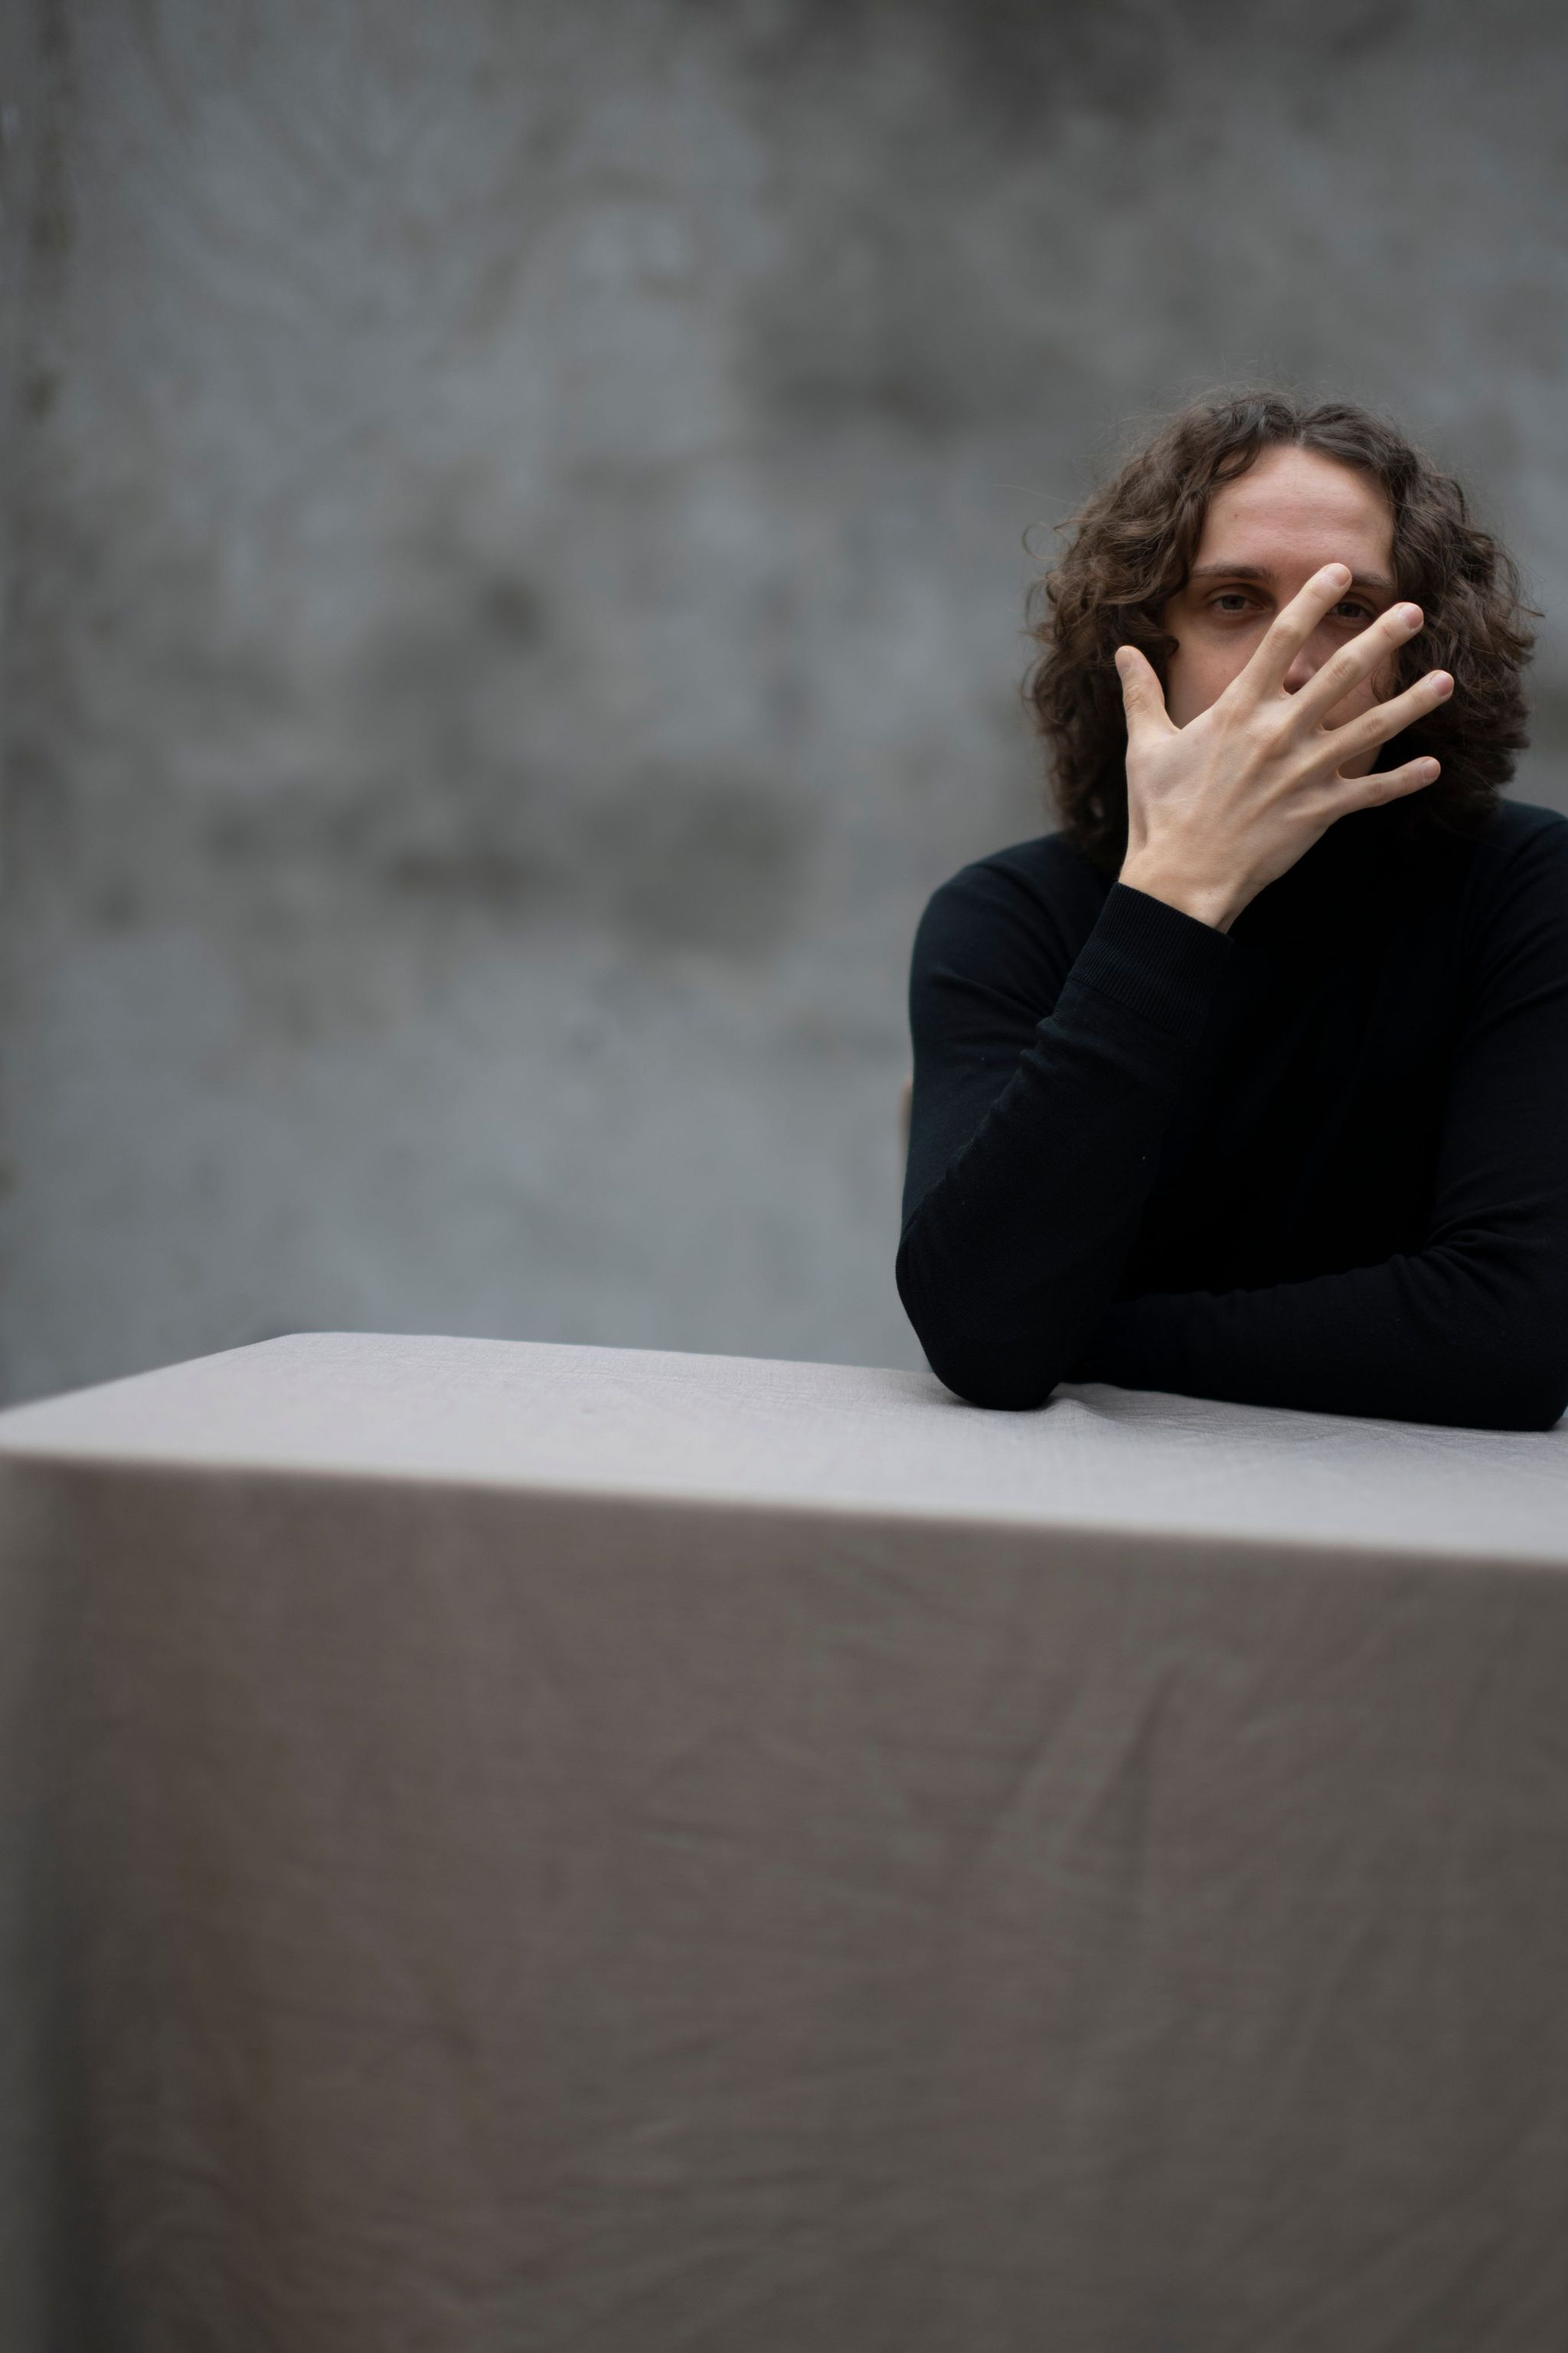
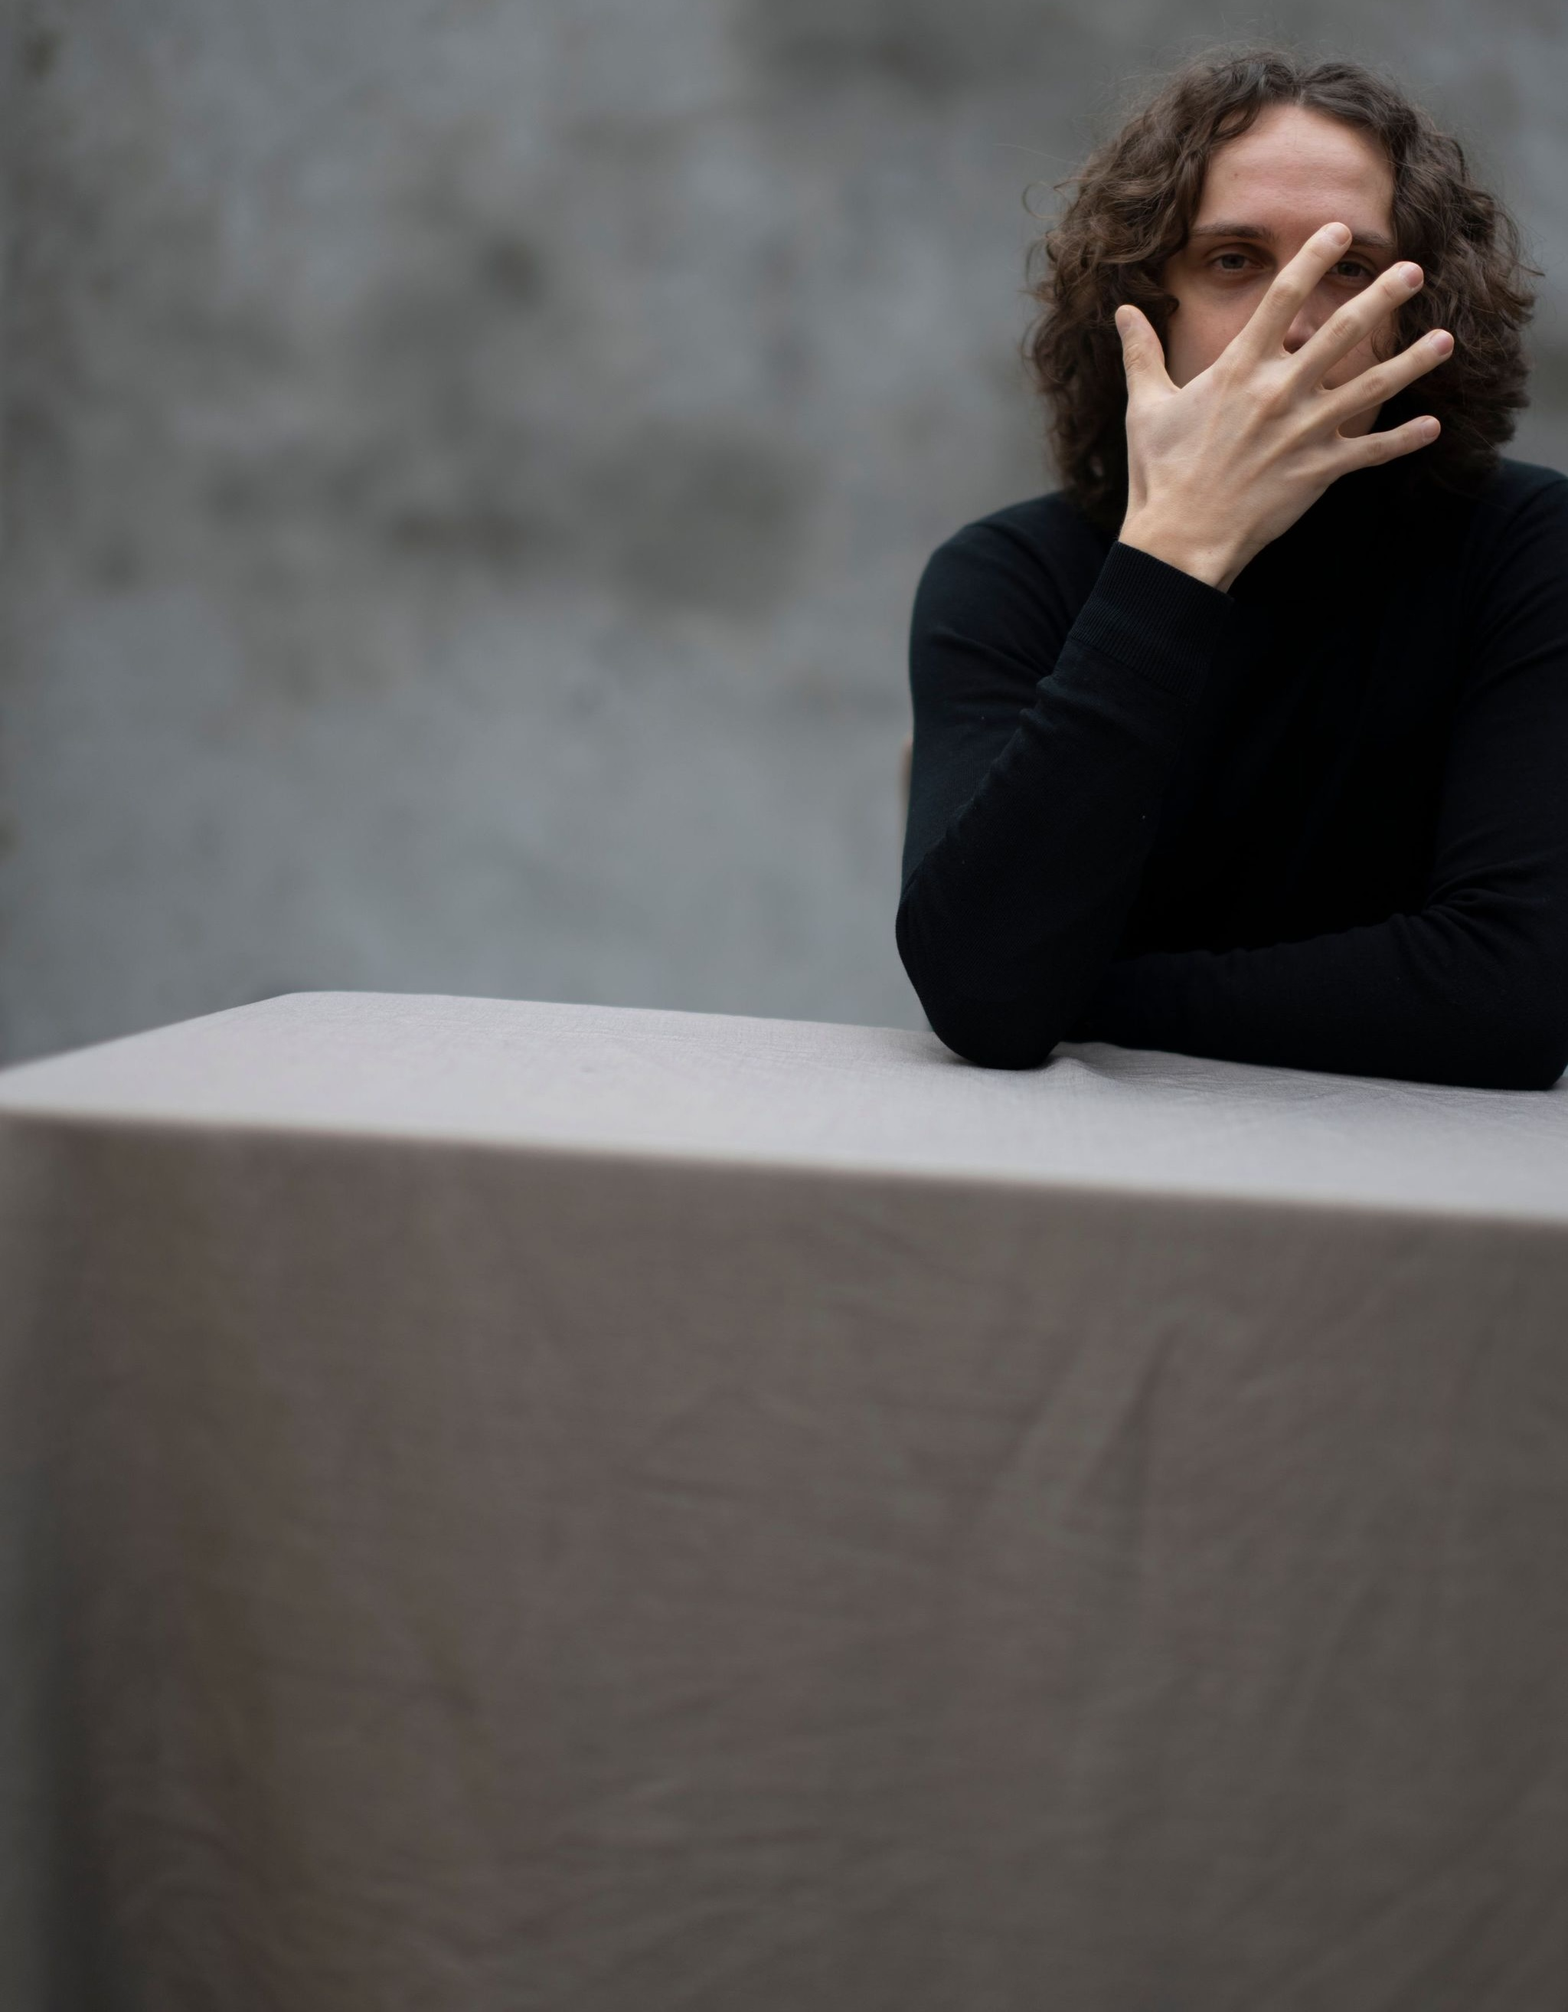
feat: concerts

diff --git a/src/app/(client)/concerts/page.tsx b/src/app/(client)/concerts/page.tsx
@@ -1,3 +1,93 @@
+import { Typography } from "@/components/typography";
+import type { Concert } from "@/prisma/generated/client";
+
+const upcomingConcert: Concert[] = [
+  {
+    title: "Solo Recital",
+    description: "Kosta Jakic performs a solo recital at salle Henri Le Boeuf",
+    id: "1",
+    date: "2022-05-10",
+    time: "19:00",
+    updatedAt: new Date(),
+    createdAt: new Date(),
+    location: "Bozar, salle Henri Le Boeuf",
+  },
+  {
+    title: "Chamber musical recital",
+    description: "Kosta Jakic performs a chamber musical recital at the Royal Albert Hall.",
+    id: "1",
+    date: "2022-05-17",
+    time: "20:00",
+    updatedAt: new Date(),
+    createdAt: new Date(),
+    location: "De Singel, Antwerp",
+  },
+  {
+    title: "Solo Recital",
+    description: "Kosta Jakic performs a solo recital at the Royal Albert Hall.",
+    id: "1",
+    date: "2022-06-22",
+    time: "20:00",
+    updatedAt: new Date(),
+    createdAt: new Date(),
+    location: "Carnegie Hall, New York",
+  },
+];
+
+const pastConcert: Concert[] = [
+  {
+    title: "Solo Recital",
+    description: "Kosta Jakic performs a solo recital at salle Henri Le Boeuf",
+    id: "1",
+    date: "2022-05-10",
+    time: "19:00",
+    updatedAt: new Date(),
+    createdAt: new Date(),
+    location: "Bozar, salle Henri Le Boeuf",
+  },
+  {
+    title: "Chamber musical recital",
+    description: "Kosta Jakic performs a chamber musical recital at the Royal Albert Hall.",
+    id: "1",
+    date: "2022-05-17",
+    time: "20:00",
+    updatedAt: new Date(),
+    createdAt: new Date(),
+    location: "De Singel, Antwerp",
+  },
+  {
+    title: "Solo Recital",
+    description: "Kosta Jakic performs a solo recital at the Royal Albert Hall.",
+    id: "1",
+    date: "2022-06-22",
+    time: "20:00",
+    updatedAt: new Date(),
+    createdAt: new Date(),
+    location: "Carnegie Hall, New York",
+  },
+];
+
+export const ConcertsSection = ({ title, concerts }: { title: string; concerts: Concert[] }) => {
+  return (
+    <div className="flex flex-col gap-6">
+      <Typography.h2>{title}</Typography.h2>
+      <div className="flex flex-col gap-4">
+        {concerts.map((concert) => (
+          <div key={concert.id}>
+            <Typography.h3>{concert.title}</Typography.h3>
+            <Typography.body>{concert.description}</Typography.body>
+          </div>
+        ))}
+      </div>
+    </div>
+  );
+};
+
 export default async function Concerts() {
-  return <div>CONCERTS</div>;
+  return (
+    <div className="flex flex-col gap-12">
+      <ConcertsSection title="Upcoming Concerts" concerts={upcomingConcert} />
+      <ConcertsSection title="Past Concerts" concerts={pastConcert} />
+    </div>
+  );
 }

diff --git a/src/app/(client)/about/page.tsx b/src/app/(client)/about/page.tsx
@@ -1,3 +1,24 @@
+import { Typography } from "@/components/typography";
+
 export default async function Concerts() {
-  return <div>ABOUT</div>;
+  return (
+    <div className="w-[50%] flex flex-col gap-4">
+      <Typography.body>
+        <span className="font-semibold">Kosta Jakic</span> lorem ipsum dolor sit amet consectetur adipisicing elit. Dolorem aspernatur
+        officiis provident maiores repellendus id iusto doloremque accusamus animi culpa est, quibusdam natus adipisci saepe rem amet
+        perspiciatis fugit eum. Lorem ipsum dolor sit amet consectetur adipisicing elit. Maxime dolorem ad numquam possimus quasi culpa sit
+        non libero quo maiores eius qui, cumque harum fugit dolor labore voluptas repellat velit.
+      </Typography.body>
+      <Typography.body>
+        Lorem ipsum dolor sit amet consectetur adipisicing elit. Omnis vero laboriosam excepturi minus delectus voluptate, quo quos, ab
+        aperiam repellendus culpa illo laborum nisi, corrupti in quod sunt vitae aliquid.
+      </Typography.body>
+      <Typography.body>
+        Lorem ipsum dolor sit amet consectetur adipisicing elit. Omnis vero laboriosam excepturi minus delectus voluptate, quo quos, ab
+        aperiam repellendus culpa illo laborum nisi, corrupti in quod sunt vitae aliquid. Lorem ipsum dolor sit amet, consectetur
+        adipisicing elit. Quo est nisi odit quasi autem veritatis nulla, minima quae ipsam placeat assumenda eius, consectetur illum neque
+        architecto odio aspernatur consequatur cupiditate.
+      </Typography.body>
+    </div>
+  );
 }

diff --git a/src/app/layout.tsx b/src/app/layout.tsx
@@ -1,12 +1,9 @@
 import "@/styles/globals.css";
 import { TRPCReactProvider } from "@/trpc/react";
+import clsx from "clsx";
 import type { Metadata } from "next";
-// import { Inter, Poppins, Roboto, Rubik } from "next/font/google";
 import { Roboto } from "next/font/google";
 
-// const inter = Inter({ subsets: ["latin"], preload: true });
-// const inter = Rubik({ subsets: ["latin"], preload: true });
-// const inter = Poppins({ weight: ["400", "500", "600", "700", "800", "900"], subsets: ["latin"], preload: true });
 const inter = Roboto({ weight: ["300", "400", "500", "700", "900"], subsets: ["latin"], preload: true });
 
 export const metadata: Metadata = {
@@ -21,7 +18,7 @@ export default function RootLayout({
 }>) {
   return (
     <html lang="en">
-      <body className={inter.className}>
+      <body className={clsx(inter.className, "min-h-screen")}>
         <TRPCReactProvider>{children}</TRPCReactProvider>
       </body>
     </html>

diff --git a/src/components/layout.tsx b/src/components/layout.tsx
@@ -28,20 +28,20 @@ export const Navbar = () => {
 export const Layout = {
   Body: ({ children, backgroundImgSrc, className, ...props }: { backgroundImgSrc?: string } & React.ComponentPropsWithoutRef<"div">) => (
     <div
-      className={clsx("min-h-screen p-8", className)}
+      className={clsx("min-h-screen p-8 overflow-hidden flex flex-col gap-8", className)}
       style={
         !!backgroundImgSrc
           ? {
               backgroundImage: `url(${backgroundImgSrc})`,
               backgroundSize: "cover",
-              backgroundPosition: "center",
+              backgroundPosition: "top",
             }
           : {}
       }
       {...props}
     >
       <Navbar />
-      <main className="h-full">{children}</main>
+      <main className="h-full relative">{children}</main>
     </div>
   ),
 };

diff --git a/src/app/(client)/(home)/page.tsx b/src/app/(client)/(home)/page.tsx
@@ -2,10 +2,10 @@ import { Typography } from "@/components/typography";
 
 export default function Home() {
   return (
-    <div className="absolute top-36 right-64 flex flex-col gap-6 items-center">
+    <div className="absolute top-0 right-64 flex flex-col gap-6 items-center">
       <div>
         <Typography.h1>Kosta</Typography.h1>
-        <Typography.h1 className="pl-[84px]">Jakic</Typography.h1>
+        <Typography.h1 className="pl-[98px]">Jakic</Typography.h1>
       </div>
       <Typography.h3>Pianist</Typography.h3>
     </div>

diff --git a/src/app/(client)/concerts/layout.tsx b/src/app/(client)/concerts/layout.tsx
@@ -1,4 +1,4 @@
-import bConcerts from "@/assets/images/bg-concerts.jpg";
+import bgConcerts from "@/assets/images/bg-concerts.jpg";
 import { Layout } from "@/components/layout";
 import "@/styles/globals.css";
 import type { Metadata } from "next";
@@ -13,5 +13,5 @@ export default function ConcertsLayout({
 }: Readonly<{
   children: React.ReactNode;
 }>) {
-  return <Layout.Body backgroundImgSrc={bConcerts.src}>{children}</Layout.Body>;
+  return <Layout.Body backgroundImgSrc={bgConcerts.src}>{children}</Layout.Body>;
 }

diff --git a/src/components/typography.tsx b/src/components/typography.tsx
@@ -34,7 +34,7 @@ export const Typography = {
     children,
     ...props
   }: React.ComponentPropsWithoutRef<"p"> & { fontWeight?: "400" | "500" | "700" }) => (
-    <p className={cn("text-base", getFontWeightClassName(fontWeight), className)} {...props}>
+    <p className={cn("text-lg", getFontWeightClassName(fontWeight), className)} {...props}>
       {children}
     </p>
   ),
